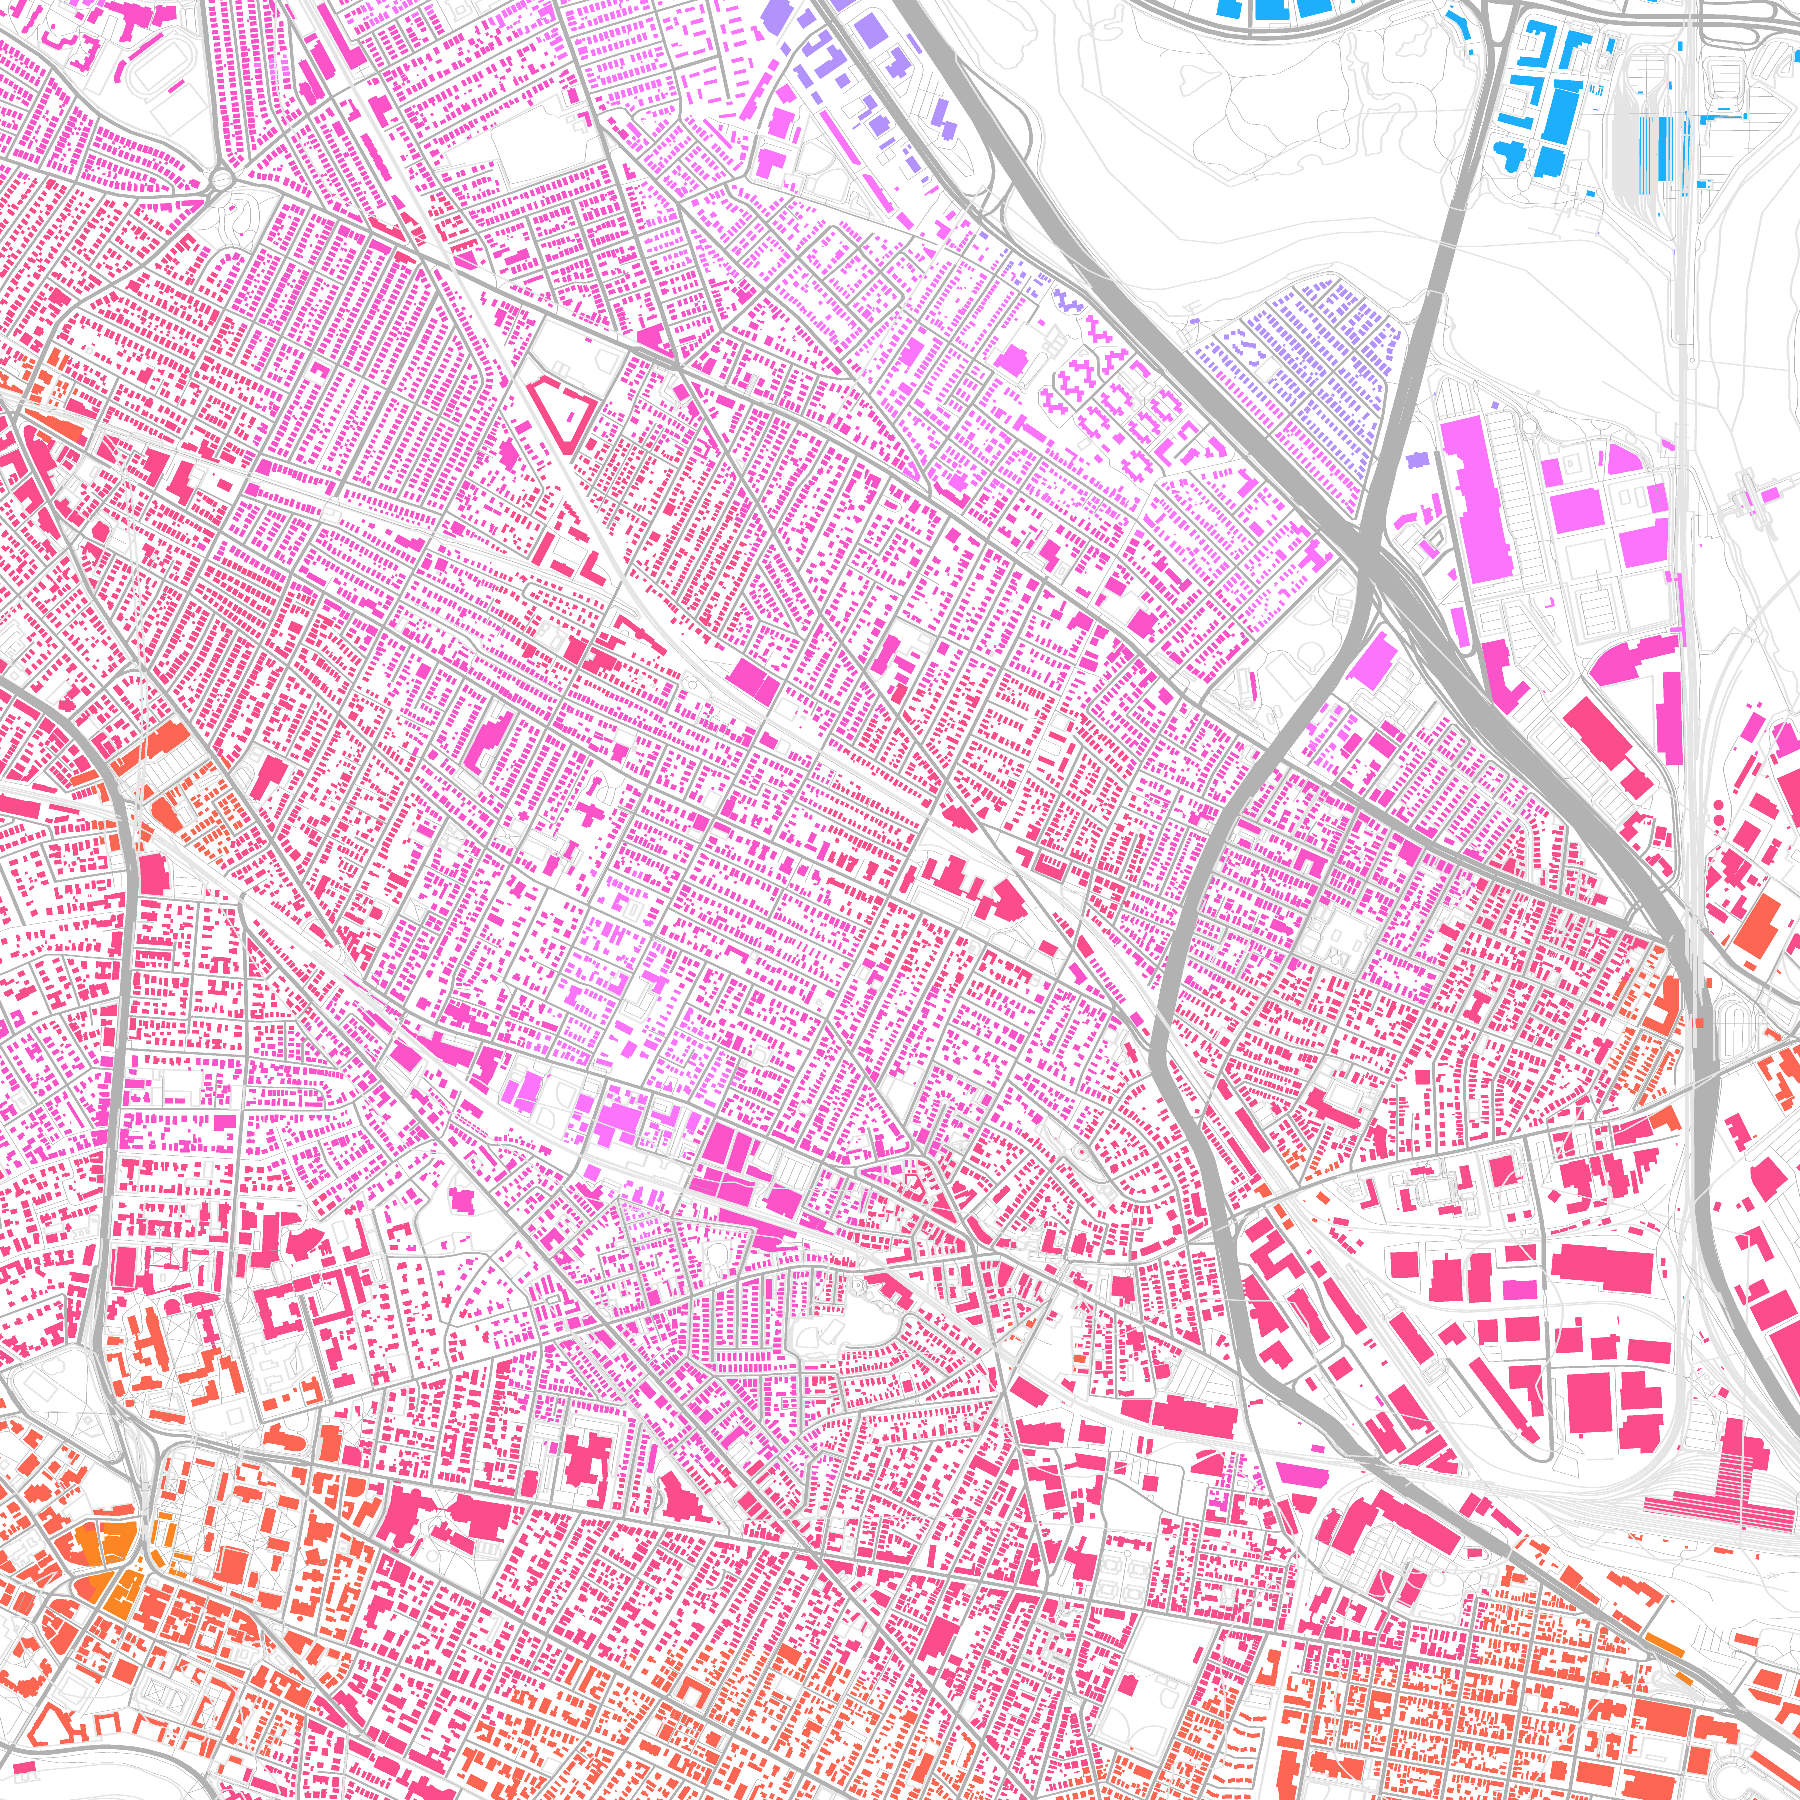
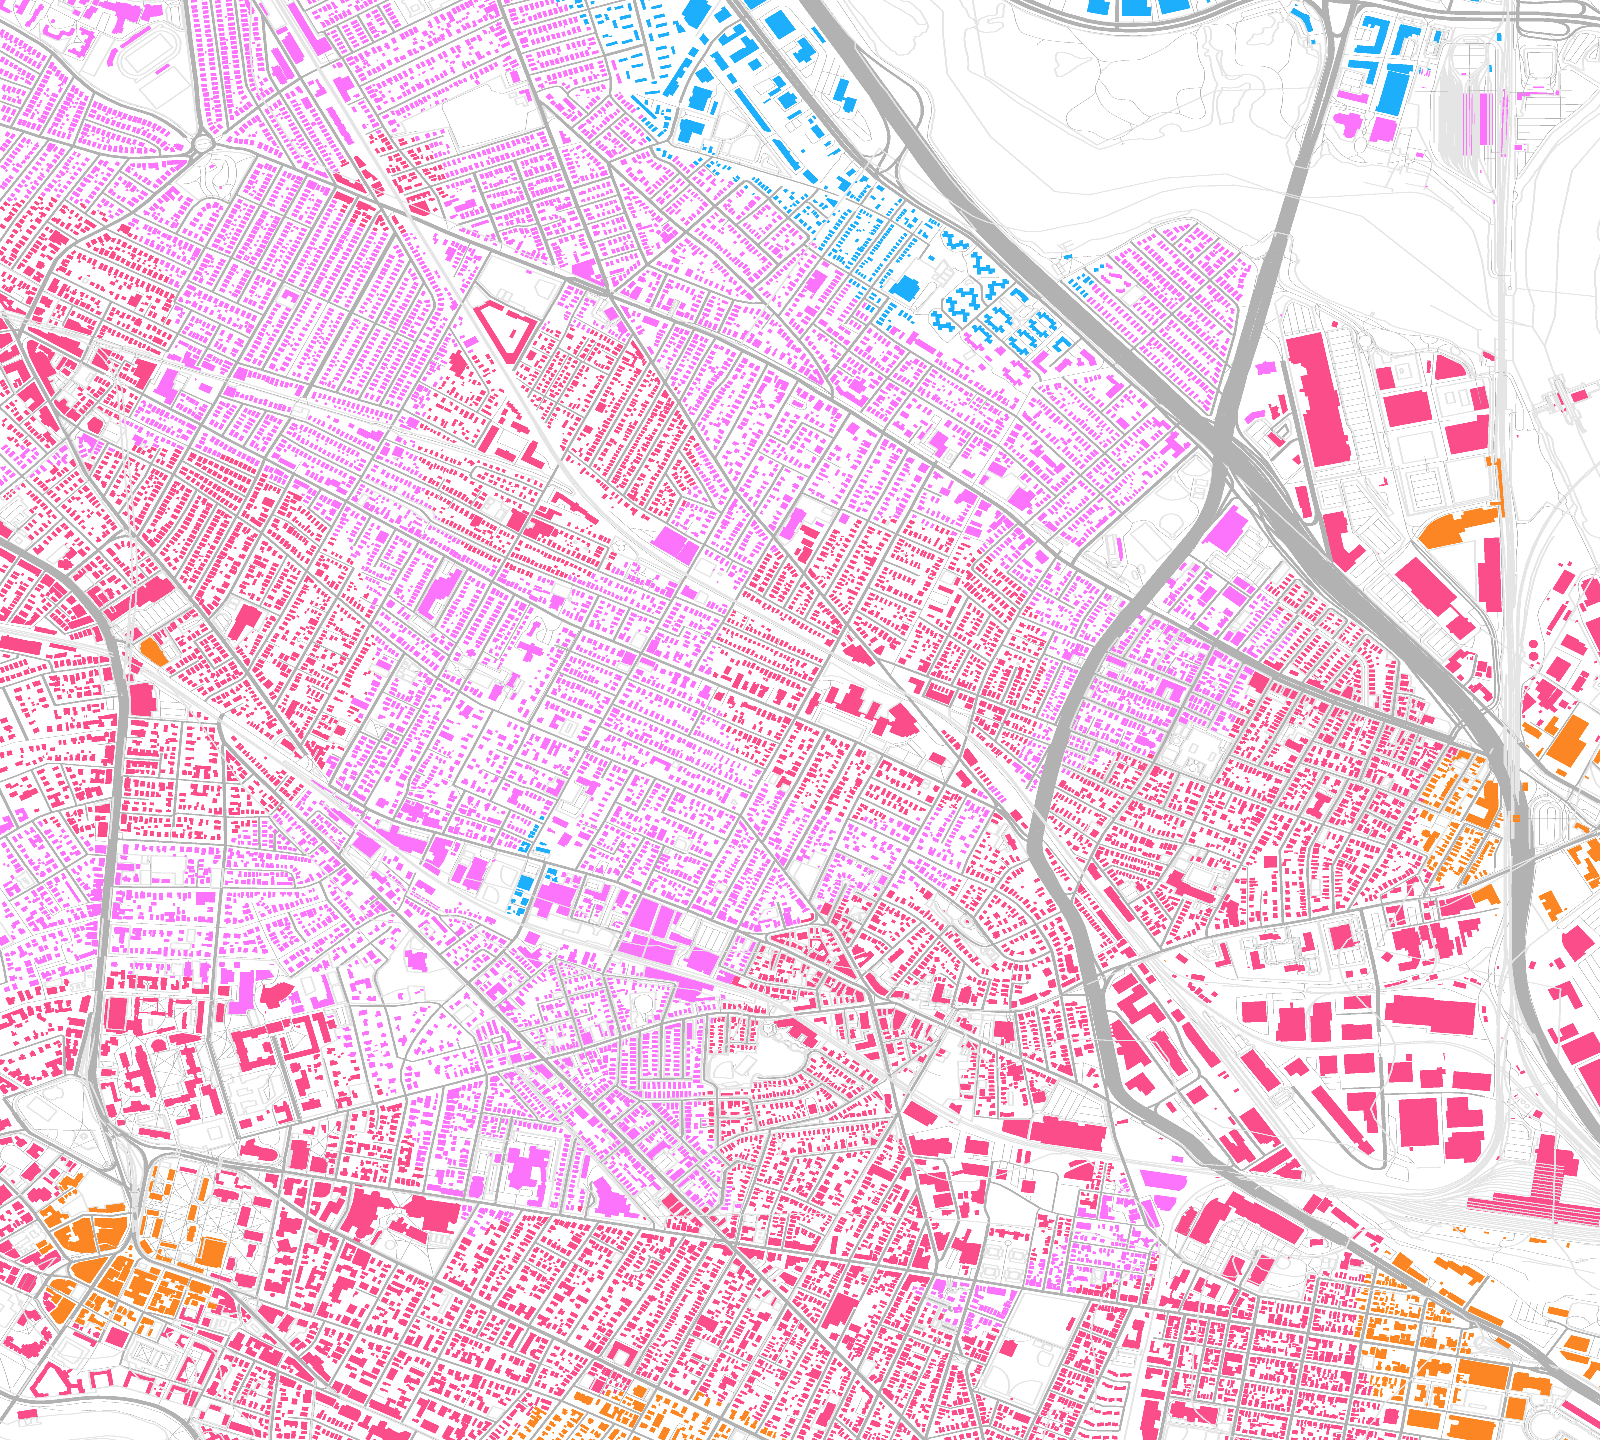
README

diff --git a/README.md b/README.md
@@ -196,18 +196,27 @@ Currently: simply try each station for the given location and use the best one. 
 
 Possible extension: use heuristics to consider fewer stations
 
-# Final Product
-
-## Rendering a map
+# Rendering a map
 
 Goals: produce useful and informative maps of the Somerville area.
 
-## What should the map show?
+Two tricky problems here:
 
-1. It should show the new, old, and/or difference in travel time.
-2. I should be able to orient myself and to approximately find a particular building.
-3. It should look inoffensive.
-4. It should convey the scale of the city.
+1. What do I want to draw?
+2. How do I draw it?
+
+## What do I want to draw?
+
+The map should:
+
+1. show the new, old, and/or difference in travel time
+2. orient myself and to approximately find a particular building
+3. look inoffensive
+4. convey the scale of the city
+
+## This implies:
+
+
 
 # End
 
@@ -232,8 +241,7 @@ Goals: produce useful and informative maps of the Somerville area.
 
 Well actually I'm using CIE L*C*h°, a cylindrical version of that space. 
 
-Hold lightness constant.
-
+Hold lightness and chroma mostly constant, vary hue
 
 # Notes
 
